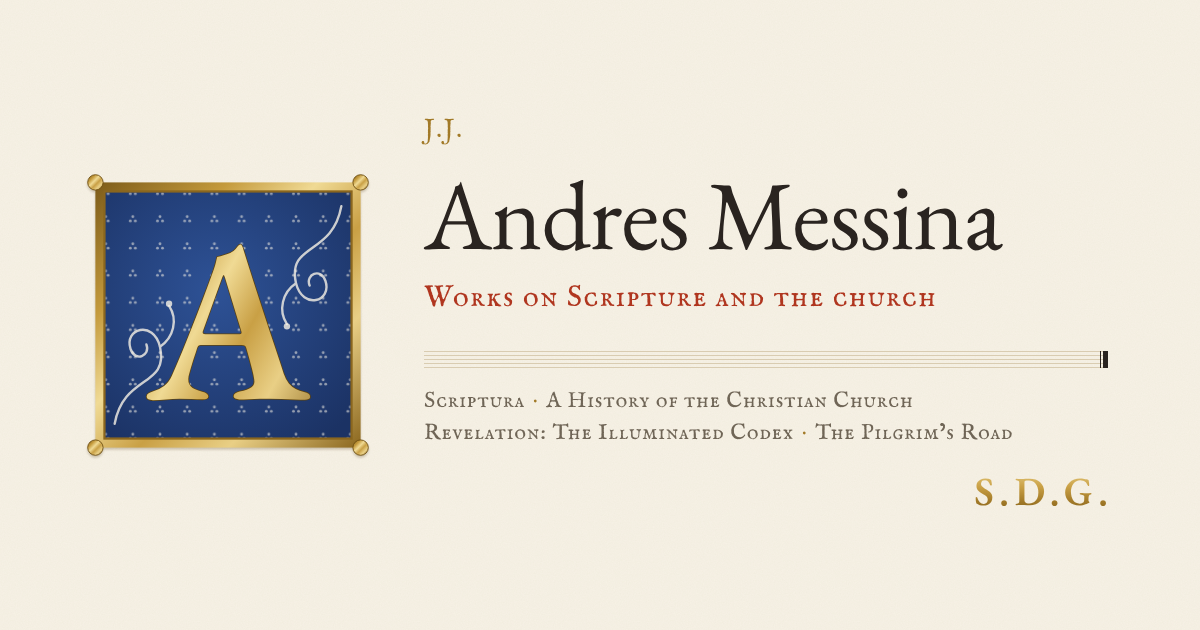
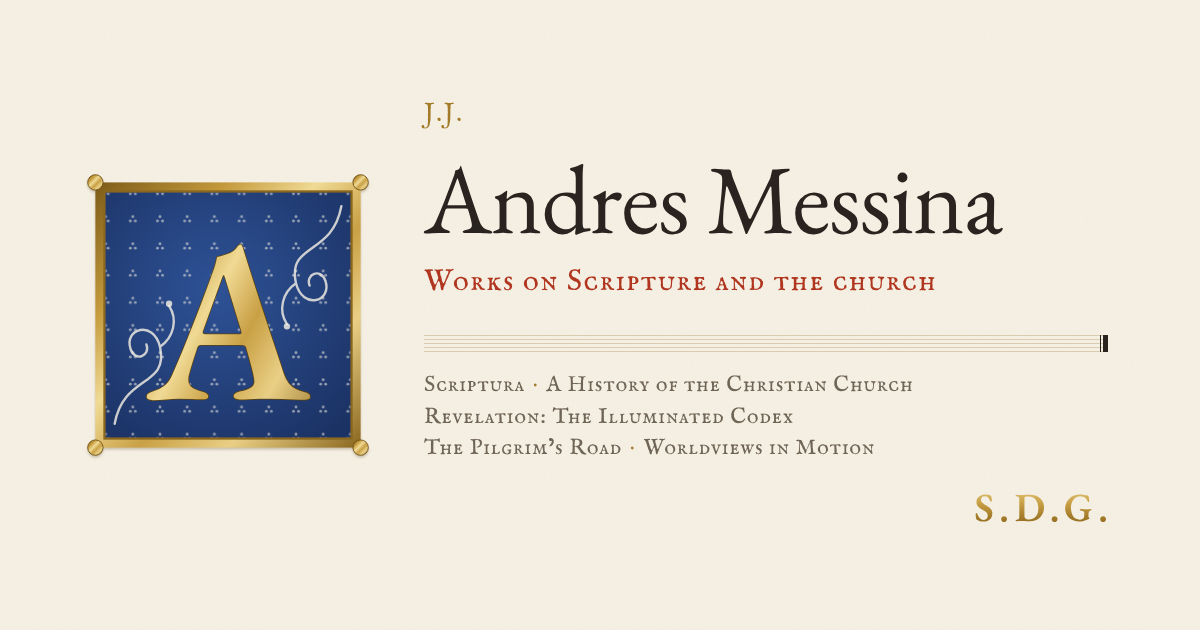
Add Worldviews in Motion as the fifth work
Adds its plate (captured from the site at Redemption), English and
Spanish entries, the sitemap entry and the share images. The promise
no longer says none loads from another site, since Worldviews in Motion
loads its fonts from Google Fonts.

Claude-Session: https://claude.ai/code/session_01DYe9WbnfF8iCgbQuoUdmui

diff --git a/es/index.html b/es/index.html
@@ -4,7 +4,7 @@
 <meta charset="utf-8">
 <meta name="viewport" content="width=device-width, initial-scale=1, viewport-fit=cover">
 <title>Andres Messina</title>
-<meta name="description" content="Obras de Andres Messina para leer las Escrituras y conocer la historia de la iglesia: Scriptura, A History of the Christian Church, Apocalipsis: El Códice Iluminado y The Pilgrim’s Road.">
+<meta name="description" content="Obras de Andres Messina para leer las Escrituras y conocer la historia de la iglesia: Scriptura, A History of the Christian Church, Apocalipsis: El Códice Iluminado, The Pilgrim’s Road y Worldviews in Motion.">
 <meta name="author" content="Andres Messina">
 <meta name="color-scheme" content="light">
 <meta name="theme-color" content="#F7F2E6">
@@ -15,20 +15,20 @@
 <meta property="og:type" content="website">
 <meta property="og:site_name" content="Andres Messina">
 <meta property="og:title" content="Andres Messina">
-<meta property="og:description" content="Obras de Andres Messina para leer las Escrituras y conocer la historia de la iglesia: Scriptura, A History of the Christian Church, Apocalipsis: El Códice Iluminado y The Pilgrim’s Road.">
+<meta property="og:description" content="Obras de Andres Messina para leer las Escrituras y conocer la historia de la iglesia: Scriptura, A History of the Christian Church, Apocalipsis: El Códice Iluminado, The Pilgrim’s Road y Worldviews in Motion.">
 <meta property="og:url" content="https://andresmessina-sdg.github.io/es/">
 <meta property="og:locale" content="es_ES">
 <meta property="og:locale:alternate" content="en_US">
 <meta property="og:image" content="https://andresmessina-sdg.github.io/assets/og-es.png">
 <meta property="og:image:width" content="1200">
 <meta property="og:image:height" content="630">
-<meta property="og:image:alt" content="Una A dorada sobre fondo azul, junto al nombre Andres Messina y sus cuatro obras.">
+<meta property="og:image:alt" content="Una A dorada sobre fondo azul, junto al nombre Andres Messina y sus cinco obras.">
 <meta name="twitter:card" content="summary_large_image">
 <meta name="twitter:title" content="Andres Messina">
-<meta name="twitter:description" content="Obras de Andres Messina para leer las Escrituras y conocer la historia de la iglesia: Scriptura, A History of the Christian Church, Apocalipsis: El Códice Iluminado y The Pilgrim’s Road.">
+<meta name="twitter:description" content="Obras de Andres Messina para leer las Escrituras y conocer la historia de la iglesia: Scriptura, A History of the Christian Church, Apocalipsis: El Códice Iluminado, The Pilgrim’s Road y Worldviews in Motion.">
 <meta name="twitter:image" content="https://andresmessina-sdg.github.io/assets/og-es.png">
-<meta name="twitter:image:alt" content="Una A dorada sobre fondo azul, junto al nombre Andres Messina y sus cuatro obras.">
-<script type="application/ld+json">{"@context":"https://schema.org","@graph":[{"@type":"Person","@id":"https://andresmessina-sdg.github.io/#me","name":"Andres Messina","url":"https://andresmessina-sdg.github.io/","image":"https://andresmessina-sdg.github.io/assets/portrait.jpg","description":"Soy un cristiano al que le encanta aprender y construir para la gloria de Dios. Me esfuerzo por ofrecer una experiencia edificante y de excelencia estética que ayude a otros a aprender sobre las Escrituras, el cristianismo y la historia de la iglesia.","jobTitle":"Experto en Humanidades y Ciencias Sociales","knowsLanguage":["es","en"],"knowsAbout":["Teología","Filosofía","Economía","Derecho Internacional"],"sameAs":["https://www.linkedin.com/in/andresmessina/","https://github.com/andresmessina-SDG","https://ko-fi.com/andresmessina"]},{"@type":"WebPage","@id":"https://andresmessina-sdg.github.io/es/","url":"https://andresmessina-sdg.github.io/es/","name":"Andres Messina","description":"Obras de Andres Messina para leer las Escrituras y conocer la historia de la iglesia: Scriptura, A History of the Christian Church, Apocalipsis: El Códice Iluminado y The Pilgrim’s Road.","inLanguage":"es","author":{"@id":"https://andresmessina-sdg.github.io/#me"},"about":{"@id":"https://andresmessina-sdg.github.io/#me"},"mainEntity":{"@type":"ItemList","itemListElement":[{"@type":"ListItem","position":1,"item":{"@type":"SoftwareApplication","operatingSystem":"Linux","applicationCategory":"ReferenceApplication","offers":{"@type":"Offer","price":"0","priceCurrency":"USD"},"name":"Scriptura","url":"https://andresmessina-sdg.github.io/scriptura/es/","description":"Lee dos traducciones lado a lado, con el griego y el hebreo bajo cada palabra y cómo la iglesia leyó cada versículo.","author":{"@id":"https://andresmessina-sdg.github.io/#me"}}},{"@type":"ListItem","position":2,"item":{"@type":"WebSite","name":"A History of the Christian Church","url":"https://andresmessina-sdg.github.io/church-history/","description":"La iglesia desde Pentecostés hasta hoy, dibujada como un solo río y contada con las palabras de sus propios testigos: las Escrituras, los padres, los credos y los reformadores.","author":{"@id":"https://andresmessina-sdg.github.io/#me"}}},{"@type":"ListItem","position":3,"item":{"@type":"WebSite","name":"Apocalipsis: El Códice Iluminado","url":"https://andresmessina-sdg.github.io/revelation-explainer/?lang=es","description":"Una guía clara y llena de esperanza al libro de Apocalipsis: siete visiones de una misma era y veintidós de sus preguntas más malentendidas, leídas a la luz de toda la Escritura.","author":{"@id":"https://andresmessina-sdg.github.io/#me"}}},{"@type":"ListItem","position":4,"item":{"@type":"LearningResource","learningResourceType":"game","name":"The Pilgrim’s Road","url":"https://andresmessina-sdg.github.io/the-pilgrims-road/","description":"Once estaciones desde Belén hasta la Gran Puerta. Los alumnos aprenden la historia, las creencias y las ramas del cristianismo con preguntas, acertijos y rompecabezas.","author":{"@id":"https://andresmessina-sdg.github.io/#me"}}}]}}]}</script>
+<meta name="twitter:image:alt" content="Una A dorada sobre fondo azul, junto al nombre Andres Messina y sus cinco obras.">
+<script type="application/ld+json">{"@context":"https://schema.org","@graph":[{"@type":"Person","@id":"https://andresmessina-sdg.github.io/#me","name":"Andres Messina","url":"https://andresmessina-sdg.github.io/","image":"https://andresmessina-sdg.github.io/assets/portrait.jpg","description":"Soy un cristiano al que le encanta aprender y construir para la gloria de Dios. Me esfuerzo por ofrecer una experiencia edificante y de excelencia estética que ayude a otros a aprender sobre las Escrituras, el cristianismo y la historia de la iglesia.","jobTitle":"Experto en Humanidades y Ciencias Sociales","knowsLanguage":["es","en"],"knowsAbout":["Teología","Filosofía","Economía","Derecho Internacional"],"sameAs":["https://www.linkedin.com/in/andresmessina/","https://github.com/andresmessina-SDG","https://ko-fi.com/andresmessina"]},{"@type":"WebPage","@id":"https://andresmessina-sdg.github.io/es/","url":"https://andresmessina-sdg.github.io/es/","name":"Andres Messina","description":"Obras de Andres Messina para leer las Escrituras y conocer la historia de la iglesia: Scriptura, A History of the Christian Church, Apocalipsis: El Códice Iluminado, The Pilgrim’s Road y Worldviews in Motion.","inLanguage":"es","author":{"@id":"https://andresmessina-sdg.github.io/#me"},"about":{"@id":"https://andresmessina-sdg.github.io/#me"},"mainEntity":{"@type":"ItemList","itemListElement":[{"@type":"ListItem","position":1,"item":{"@type":"SoftwareApplication","operatingSystem":"Linux","applicationCategory":"ReferenceApplication","offers":{"@type":"Offer","price":"0","priceCurrency":"USD"},"name":"Scriptura","url":"https://andresmessina-sdg.github.io/scriptura/es/","description":"Lee dos traducciones lado a lado, con el griego y el hebreo bajo cada palabra y cómo la iglesia leyó cada versículo.","author":{"@id":"https://andresmessina-sdg.github.io/#me"}}},{"@type":"ListItem","position":2,"item":{"@type":"WebSite","name":"A History of the Christian Church","url":"https://andresmessina-sdg.github.io/church-history/","description":"La iglesia desde Pentecostés hasta hoy, dibujada como un solo río y contada con las palabras de sus propios testigos: las Escrituras, los padres, los credos y los reformadores.","author":{"@id":"https://andresmessina-sdg.github.io/#me"}}},{"@type":"ListItem","position":3,"item":{"@type":"WebSite","name":"Apocalipsis: El Códice Iluminado","url":"https://andresmessina-sdg.github.io/revelation-explainer/?lang=es","description":"Una guía clara y llena de esperanza al libro de Apocalipsis: siete visiones de una misma era y veintidós de sus preguntas más malentendidas, leídas a la luz de toda la Escritura.","author":{"@id":"https://andresmessina-sdg.github.io/#me"}}},{"@type":"ListItem","position":4,"item":{"@type":"LearningResource","learningResourceType":"game","name":"The Pilgrim’s Road","url":"https://andresmessina-sdg.github.io/the-pilgrims-road/","description":"Once estaciones desde Belén hasta la Gran Puerta. Los alumnos aprenden la historia, las creencias y las ramas del cristianismo con preguntas, acertijos y rompecabezas.","author":{"@id":"https://andresmessina-sdg.github.io/#me"}}},{"@type":"ListItem","position":5,"item":{"@type":"WebSite","name":"Worldviews in Motion","url":"https://andresmessina-sdg.github.io/Worldviews-in-Motion/","description":"Las principales cosmovisiones del mundo, cada una pintada como una acuarela que responde a cuatro preguntas: de dónde venimos, qué salió mal, qué lo arregla y cómo termina todo. Una pregunta lleva de cada una a la siguiente, comenzando y terminando con el teísmo cristiano.","author":{"@id":"https://andresmessina-sdg.github.io/#me"}}}]}}]}</script>
 <link rel="preload" href="/assets/fonts/eb-garamond-roman-latin.woff2" as="font" type="font/woff2" crossorigin>
 <link rel="preload" href="/assets/fonts/im-fell-english-sc-roman-latin.woff2" as="font" type="font/woff2" crossorigin>
 <link rel="stylesheet" href="/assets/site.css?v=ce9fe2e6fe">
@@ -187,6 +187,17 @@
           <a href="https://andresmessina-sdg.github.io/the-pilgrims-road/">Comenzar el viaje</a>
         </p>
       </li>
+      <li class="sep" aria-hidden="true"><hr class="staff"></li>
+      <li class="work blue">
+        <h3 lang="en"><a href="https://andresmessina-sdg.github.io/Worldviews-in-Motion/"><span class="versal">W</span>orldviews in Motion</a></h3>
+        <p class="kind">Acuarela animada, en inglés</p>
+        <a class="plate" href="https://andresmessina-sdg.github.io/Worldviews-in-Motion/"><img src="/assets/works/worldviews-1200.webp" srcset="/assets/works/worldviews-640.webp 640w, /assets/works/worldviews-1200.webp 1200w" sizes="(min-width: 640px) 37rem, calc(100vw - 90px)" width="1200" height="675" alt="El teísmo cristiano pintado en acuarela: el Dios trino sobre el mundo, unido a él por una cruz roja sobre la que se carga el pecado del hombre, sobre una línea de la historia desde la Creación hasta la Nueva Creación." loading="lazy" decoding="async"></a>
+        <p class="what">Las principales cosmovisiones del mundo, cada una pintada como una acuarela que responde a cuatro preguntas: de dónde venimos, qué salió mal, qué lo arregla y cómo termina todo. Una pregunta lleva de cada una a la siguiente, comenzando y terminando con el teísmo cristiano.</p>
+        <p class="facts"><span>English</span><span>22 cosmovisiones · 4 actos</span></p>
+        <p class="go">
+          <a href="https://andresmessina-sdg.github.io/Worldviews-in-Motion/">Ver las pinturas</a>
+        </p>
+      </li>
     </ul>
     <div class="score score-close">
       <svg class="score-notes" viewBox="0 0 215.3 57.5" width="215.3" height="57.5" role="img" aria-label="The last line of Bach’s setting of Ein feste Burg ist unser Gott">
@@ -202,7 +213,7 @@
   </main>
 
   <footer class="colophon">
-    <p class="promise">Las cuatro son gratuitas. Ninguna pide una cuenta ni te rastrea, y ninguna carga nada de otro sitio salvo que reproduzcas un video.</p>
+    <p class="promise">Las cinco son gratuitas. Ninguna pide una cuenta ni te rastrea.</p>
     <p class="bach">Bach encabezaba sus partituras con J.J., «Jesús, ayúdame», y las firmaba S.D.G., «solo a Dios la gloria». Esta página toma prestada su costumbre, y sus pentagramas llevan la primera y la última línea de su arreglo del <i>Ein feste Burg ist unser Gott</i> de Lutero, BWV 302.</p>
     <nav class="foot-links">
       <a href="https://ko-fi.com/andresmessina">Apoyar el trabajo</a>

diff --git a/index.html b/index.html
@@ -4,7 +4,7 @@
 <meta charset="utf-8">
 <meta name="viewport" content="width=device-width, initial-scale=1, viewport-fit=cover">
 <title>Andres Messina</title>
-<meta name="description" content="Works by Andres Messina for reading Scripture and learning the church’s story: Scriptura, A History of the Christian Church, Revelation: The Illuminated Codex and The Pilgrim’s Road.">
+<meta name="description" content="Works by Andres Messina for reading Scripture and learning the church’s story: Scriptura, A History of the Christian Church, Revelation: The Illuminated Codex, The Pilgrim’s Road and Worldviews in Motion.">
 <meta name="author" content="Andres Messina">
 <meta name="color-scheme" content="light">
 <meta name="theme-color" content="#F7F2E6">
@@ -15,20 +15,20 @@
 <meta property="og:type" content="website">
 <meta property="og:site_name" content="Andres Messina">
 <meta property="og:title" content="Andres Messina">
-<meta property="og:description" content="Works by Andres Messina for reading Scripture and learning the church’s story: Scriptura, A History of the Christian Church, Revelation: The Illuminated Codex and The Pilgrim’s Road.">
+<meta property="og:description" content="Works by Andres Messina for reading Scripture and learning the church’s story: Scriptura, A History of the Christian Church, Revelation: The Illuminated Codex, The Pilgrim’s Road and Worldviews in Motion.">
 <meta property="og:url" content="https://andresmessina-sdg.github.io/">
 <meta property="og:locale" content="en_US">
 <meta property="og:locale:alternate" content="es_ES">
 <meta property="og:image" content="https://andresmessina-sdg.github.io/assets/og-en.png">
 <meta property="og:image:width" content="1200">
 <meta property="og:image:height" content="630">
-<meta property="og:image:alt" content="A gilded initial A on a blue ground, beside the name Andres Messina and his four works.">
+<meta property="og:image:alt" content="A gilded initial A on a blue ground, beside the name Andres Messina and his five works.">
 <meta name="twitter:card" content="summary_large_image">
 <meta name="twitter:title" content="Andres Messina">
-<meta name="twitter:description" content="Works by Andres Messina for reading Scripture and learning the church’s story: Scriptura, A History of the Christian Church, Revelation: The Illuminated Codex and The Pilgrim’s Road.">
+<meta name="twitter:description" content="Works by Andres Messina for reading Scripture and learning the church’s story: Scriptura, A History of the Christian Church, Revelation: The Illuminated Codex, The Pilgrim’s Road and Worldviews in Motion.">
 <meta name="twitter:image" content="https://andresmessina-sdg.github.io/assets/og-en.png">
-<meta name="twitter:image:alt" content="A gilded initial A on a blue ground, beside the name Andres Messina and his four works.">
-<script type="application/ld+json">{"@context":"https://schema.org","@graph":[{"@type":"Person","@id":"https://andresmessina-sdg.github.io/#me","name":"Andres Messina","url":"https://andresmessina-sdg.github.io/","image":"https://andresmessina-sdg.github.io/assets/portrait.jpg","description":"I am a Christian who loves to learn and build to the glory of God. I work hard to curate an edifying and aesthetically excellent experience that helps others learn about Scripture, Christianity and the history of the church.","jobTitle":"Humanities & Social Science Expert","knowsLanguage":["es","en"],"knowsAbout":["Theology","Philosophy","Economics","International Law"],"sameAs":["https://www.linkedin.com/in/andresmessina/","https://github.com/andresmessina-SDG","https://ko-fi.com/andresmessina"]},{"@type":"WebPage","@id":"https://andresmessina-sdg.github.io/","url":"https://andresmessina-sdg.github.io/","name":"Andres Messina","description":"Works by Andres Messina for reading Scripture and learning the church’s story: Scriptura, A History of the Christian Church, Revelation: The Illuminated Codex and The Pilgrim’s Road.","inLanguage":"en","author":{"@id":"https://andresmessina-sdg.github.io/#me"},"about":{"@id":"https://andresmessina-sdg.github.io/#me"},"mainEntity":{"@type":"ItemList","itemListElement":[{"@type":"ListItem","position":1,"item":{"@type":"SoftwareApplication","operatingSystem":"Linux","applicationCategory":"ReferenceApplication","offers":{"@type":"Offer","price":"0","priceCurrency":"USD"},"name":"Scriptura","url":"https://andresmessina-sdg.github.io/scriptura/","description":"Read two translations side by side, with the Greek and Hebrew under every word and how the church read each verse.","author":{"@id":"https://andresmessina-sdg.github.io/#me"}}},{"@type":"ListItem","position":2,"item":{"@type":"WebSite","name":"A History of the Christian Church","url":"https://andresmessina-sdg.github.io/church-history/","description":"The church from Pentecost to today, drawn as one river and told in the words of its own witnesses: Scripture, the fathers, the creeds and the Reformers.","author":{"@id":"https://andresmessina-sdg.github.io/#me"}}},{"@type":"ListItem","position":3,"item":{"@type":"WebSite","name":"Revelation: The Illuminated Codex","url":"https://andresmessina-sdg.github.io/revelation-explainer/","description":"A clear, hopeful guide to the Book of Revelation: seven visions of one age, and twenty-two of its most misunderstood questions, read in the light of all Scripture.","author":{"@id":"https://andresmessina-sdg.github.io/#me"}}},{"@type":"ListItem","position":4,"item":{"@type":"LearningResource","learningResourceType":"game","name":"The Pilgrim’s Road","url":"https://andresmessina-sdg.github.io/the-pilgrims-road/","description":"Eleven stations from Bethlehem to the Great Gate. Students learn the story, beliefs and branches of Christianity through quizzes, riddles and puzzles.","author":{"@id":"https://andresmessina-sdg.github.io/#me"}}}]}}]}</script>
+<meta name="twitter:image:alt" content="A gilded initial A on a blue ground, beside the name Andres Messina and his five works.">
+<script type="application/ld+json">{"@context":"https://schema.org","@graph":[{"@type":"Person","@id":"https://andresmessina-sdg.github.io/#me","name":"Andres Messina","url":"https://andresmessina-sdg.github.io/","image":"https://andresmessina-sdg.github.io/assets/portrait.jpg","description":"I am a Christian who loves to learn and build to the glory of God. I work hard to curate an edifying and aesthetically excellent experience that helps others learn about Scripture, Christianity and the history of the church.","jobTitle":"Humanities & Social Science Expert","knowsLanguage":["es","en"],"knowsAbout":["Theology","Philosophy","Economics","International Law"],"sameAs":["https://www.linkedin.com/in/andresmessina/","https://github.com/andresmessina-SDG","https://ko-fi.com/andresmessina"]},{"@type":"WebPage","@id":"https://andresmessina-sdg.github.io/","url":"https://andresmessina-sdg.github.io/","name":"Andres Messina","description":"Works by Andres Messina for reading Scripture and learning the church’s story: Scriptura, A History of the Christian Church, Revelation: The Illuminated Codex, The Pilgrim’s Road and Worldviews in Motion.","inLanguage":"en","author":{"@id":"https://andresmessina-sdg.github.io/#me"},"about":{"@id":"https://andresmessina-sdg.github.io/#me"},"mainEntity":{"@type":"ItemList","itemListElement":[{"@type":"ListItem","position":1,"item":{"@type":"SoftwareApplication","operatingSystem":"Linux","applicationCategory":"ReferenceApplication","offers":{"@type":"Offer","price":"0","priceCurrency":"USD"},"name":"Scriptura","url":"https://andresmessina-sdg.github.io/scriptura/","description":"Read two translations side by side, with the Greek and Hebrew under every word and how the church read each verse.","author":{"@id":"https://andresmessina-sdg.github.io/#me"}}},{"@type":"ListItem","position":2,"item":{"@type":"WebSite","name":"A History of the Christian Church","url":"https://andresmessina-sdg.github.io/church-history/","description":"The church from Pentecost to today, drawn as one river and told in the words of its own witnesses: Scripture, the fathers, the creeds and the Reformers.","author":{"@id":"https://andresmessina-sdg.github.io/#me"}}},{"@type":"ListItem","position":3,"item":{"@type":"WebSite","name":"Revelation: The Illuminated Codex","url":"https://andresmessina-sdg.github.io/revelation-explainer/","description":"A clear, hopeful guide to the Book of Revelation: seven visions of one age, and twenty-two of its most misunderstood questions, read in the light of all Scripture.","author":{"@id":"https://andresmessina-sdg.github.io/#me"}}},{"@type":"ListItem","position":4,"item":{"@type":"LearningResource","learningResourceType":"game","name":"The Pilgrim’s Road","url":"https://andresmessina-sdg.github.io/the-pilgrims-road/","description":"Eleven stations from Bethlehem to the Great Gate. Students learn the story, beliefs and branches of Christianity through quizzes, riddles and puzzles.","author":{"@id":"https://andresmessina-sdg.github.io/#me"}}},{"@type":"ListItem","position":5,"item":{"@type":"WebSite","name":"Worldviews in Motion","url":"https://andresmessina-sdg.github.io/Worldviews-in-Motion/","description":"The world’s major worldviews, each painted as one watercolor that answers four questions: where we came from, what went wrong, what puts it right and where it all ends. One question leads from each to the next, beginning and ending with Christian theism.","author":{"@id":"https://andresmessina-sdg.github.io/#me"}}}]}}]}</script>
 <link rel="preload" href="/assets/fonts/eb-garamond-roman-latin.woff2" as="font" type="font/woff2" crossorigin>
 <link rel="preload" href="/assets/fonts/im-fell-english-sc-roman-latin.woff2" as="font" type="font/woff2" crossorigin>
 <link rel="stylesheet" href="/assets/site.css?v=ce9fe2e6fe">
@@ -187,6 +187,17 @@
           <a href="https://andresmessina-sdg.github.io/the-pilgrims-road/">Begin the journey</a>
         </p>
       </li>
+      <li class="sep" aria-hidden="true"><hr class="staff"></li>
+      <li class="work blue">
+        <h3><a href="https://andresmessina-sdg.github.io/Worldviews-in-Motion/"><span class="versal">W</span>orldviews in Motion</a></h3>
+        <p class="kind">Animated watercolor</p>
+        <a class="plate" href="https://andresmessina-sdg.github.io/Worldviews-in-Motion/"><img src="/assets/works/worldviews-1200.webp" srcset="/assets/works/worldviews-640.webp 640w, /assets/works/worldviews-1200.webp 1200w" sizes="(min-width: 640px) 37rem, calc(100vw - 90px)" width="1200" height="675" alt="Christian theism painted in watercolor: the triune God above the world, joined to it by a red cross on which man’s sin is laid, over a line of history from Creation to New Creation." loading="lazy" decoding="async"></a>
+        <p class="what">The world’s major worldviews, each painted as one watercolor that answers four questions: where we came from, what went wrong, what puts it right and where it all ends. One question leads from each to the next, beginning and ending with Christian theism.</p>
+        <p class="facts"><span>English</span><span>22 worldviews · 4 acts</span></p>
+        <p class="go">
+          <a href="https://andresmessina-sdg.github.io/Worldviews-in-Motion/">Watch the paintings</a>
+        </p>
+      </li>
     </ul>
     <div class="score score-close">
       <svg class="score-notes" viewBox="0 0 215.3 57.5" width="215.3" height="57.5" role="img" aria-label="The last line of Bach’s setting of Ein feste Burg ist unser Gott">
@@ -202,7 +213,7 @@
   </main>
 
   <footer class="colophon">
-    <p class="promise">All four are free. None of them asks for an account or tracks you, and none loads anything from another site unless you play a video.</p>
+    <p class="promise">All five are free. None of them asks for an account or tracks you.</p>
     <p class="bach">Bach headed his scores J.J., “Jesus, help,” and signed them S.D.G., “to God alone the glory.” This page borrows his habit, and its staves carry the first and last lines of his setting of Luther’s <i>Ein feste Burg ist unser Gott</i>, BWV 302.</p>
     <nav class="foot-links">
       <a href="https://ko-fi.com/andresmessina">Support the work</a>

diff --git a/tools/render-images.js b/tools/render-images.js
@@ -19,8 +19,8 @@ const pages = {};
 
 const og = (lang) => {
   const t = lang === 'es'
-    ? { sub: 'Obras sobre las Escrituras y la iglesia', works: ['Scriptura', 'A History of the Christian Church', 'Apocalipsis: El Códice Iluminado', 'The Pilgrim’s Road'] }
-    : { sub: 'Works on Scripture and the church', works: ['Scriptura', 'A History of the Christian Church', 'Revelation: The Illuminated Codex', 'The Pilgrim’s Road'] };
+    ? { sub: 'Obras sobre las Escrituras y la iglesia', works: ['Scriptura', 'A History of the Christian Church', 'Apocalipsis: El Códice Iluminado', 'The Pilgrim’s Road', 'Worldviews in Motion'] }
+    : { sub: 'Works on Scripture and the church', works: ['Scriptura', 'A History of the Christian Church', 'Revelation: The Illuminated Codex', 'The Pilgrim’s Road', 'Worldviews in Motion'] };
   return `<!doctype html><html lang="${lang}"><meta charset="utf-8"><style>${fontFaces}
   html,body{margin:0}
   body{width:1200px;height:630px;box-sizing:border-box;padding:0 92px;display:grid;grid-template-columns:272px 1fr;gap:60px;align-items:center;
@@ -39,7 +39,7 @@ const og = (lang) => {
   </style><body>
   <div class="ini">${initial}</div>
   <div><p class="jj">J.J.</p><h1>Andres Messina</h1><p class="sub">${t.sub}</p><div class="staff"></div>
-  <p class="works">${t.works[0]}<b>·</b>${t.works[1]}<br>${t.works[2]}<b>·</b>${t.works[3]}</p><p class="sdg">S.D.G.</p></div>
+  <p class="works">${t.works[0]}<b>·</b>${t.works[1]}<br>${t.works[2]}<br>${t.works[3]}<b>·</b>${t.works[4]}</p><p class="sdg">S.D.G.</p></div>
   </body></html>`;
 };
 

diff --git a/404.html b/404.html
@@ -37,6 +37,7 @@
       <li><a href="https://andresmessina-sdg.github.io/church-history/" lang="en">A History of the Christian Church</a></li>
       <li><a href="https://andresmessina-sdg.github.io/revelation-explainer/" lang="en">Revelation: The Illuminated Codex</a></li>
       <li><a href="https://andresmessina-sdg.github.io/the-pilgrims-road/" lang="en">The Pilgrim’s Road</a></li>
+      <li><a href="https://andresmessina-sdg.github.io/Worldviews-in-Motion/" lang="en">Worldviews in Motion</a></li>
     </ul>
 
     <hr class="staff final" aria-hidden="true" style="margin-top: 56px">

diff --git a/tools/build.py b/tools/build.py
@@ -23,6 +23,7 @@ EXTRA_SITEMAP = [
     "scriptura/", "scriptura/es/", "scriptura/ru/",
     "revelation-explainer/",
     "the-pilgrims-road/",
+    "Worldviews-in-Motion/",
 ]
 
 
@@ -89,6 +90,7 @@ def structured_data(t: dict, url: str) -> str:
         "church-history": {"@type": "WebSite"},
         "revelation": {"@type": "WebSite"},
         "pilgrims-road": {"@type": "LearningResource", "learningResourceType": "game"},
+        "worldviews": {"@type": "WebSite"},
     }
     works = []
     for w in t["works"]:

diff --git a/README.md b/README.md
@@ -2,7 +2,8 @@
 
 The home page of Andres Messina's works on Scripture and the church:
 Scriptura, A History of the Christian Church, Revelation: The
-Illuminated Codex and The Pilgrim's Road.
+Illuminated Codex, The Pilgrim's Road
+and Worldviews in Motion.
 
 Live at <https://andresmessina-sdg.github.io/>, in English and at
 [`/es/`](https://andresmessina-sdg.github.io/es/) in Spanish.
@@ -15,12 +16,12 @@ signed his scores: *J.J.* (*Jesu, juva*, "Jesus, help") at the head and
 
 | Path | What it is |
 |---|---|
-| `src/strings/en.toml`, `src/strings/es.toml` | Every word on the page, and the four works. Edit these to change the text or add a work. |
+| `src/strings/en.toml`, `src/strings/es.toml` | Every word on the page, and the five works. Edit these to change the text or add a work. |
 | `src/head.html`, `src/page.html`, `src/404.html` | The page templates. |
 | `src/initial.svg`, `src/tail.svg` | The gilded initial A and the ivy that trails from it. |
 | `assets/site.css`, `assets/site.js` | Styles, and the one glint of light across the gold. |
 | `src/score-open.svg`, `src/score-close.svg` | The first and last lines of Bach's *Ein feste Burg ist unser Gott* (BWV 302, soprano), engraved by `tools/engrave.py` with note shapes from [Bravura](https://github.com/steinbergmedia/bravura) (SIL Open Font License). |
-| `assets/works/` | The plate beside each work, at 1200 and 640 pixels wide. The river, the Revelation guide (question 20) and The Pilgrim's Road were captured from the sites themselves at double resolution; Scriptura's is its own screenshot of the Greek interlinear. To change one, replace both sizes and keep the 16:9 shape. |
+| `assets/works/` | The plate beside each work, at 1200 and 640 pixels wide. The river, the Revelation guide (question 20), The Pilgrim's Road and Worldviews in Motion (Christian theism, at Redemption) were captured from the sites themselves at double resolution; Scriptura's is its own screenshot of the Greek interlinear. To change one, replace both sizes and keep the 16:9 shape. |
 | `assets/fonts/` | EB Garamond and IM Fell English SC, served from this site under the SIL Open Font License. The page loads nothing from any other site. |
 | `index.html`, `es/index.html`, `404.html`, `sitemap.xml` | Built by `tools/build.py`. Don't edit by hand. |
 | `robots.txt` | Governs the whole `andresmessina-sdg.github.io` host, project sites included, so it lists every sitemap on it. |
@@ -53,4 +54,4 @@ Commit what they write. GitHub Pages serves the repository as it is.
 
 This site sits at the root of the host, above each project site. A folder
 here named `scriptura`, `church-history`, `revelation-explainer`,
-`the-pilgrims-road` or `scriptura-flatpak` would hide that project.
+`the-pilgrims-road`, `Worldviews-in-Motion` or `scriptura-flatpak` would hide that project.
